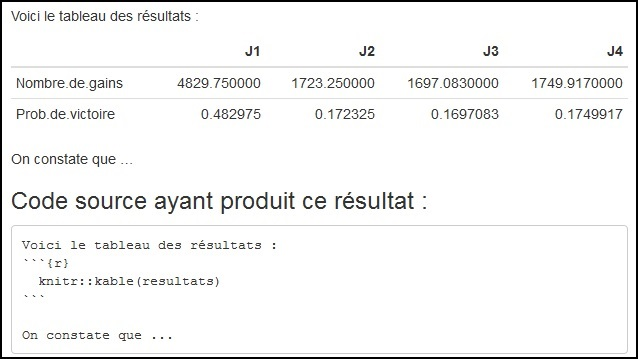
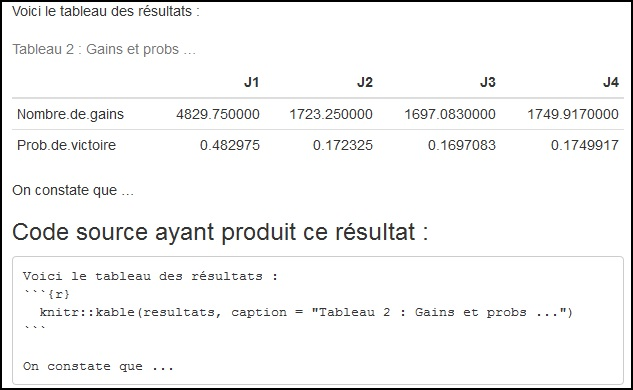
Modification de la solution 2 (tableaux kable) pour l'affichage de tableaux

diff --git a/HTML_Outputs.html b/HTML_Outputs.html
@@ -180,6 +180,7 @@ On constate que ...</code></pre>
 <h1>Deuxième solution</h1>
 <p>Voici le tableau des résultats :</p>
 <table>
+<caption>Tableau 2 : Gains et probs …</caption>
 <thead>
 <tr class="header">
 <th align="left"></th>
@@ -211,7 +212,7 @@ On constate que ...</code></pre>
 <h3>Code source ayant produit ce résultat :</h3>
 <pre><code>Voici le tableau des résultats :
 ```{r}
-  knitr::kable(resultats)
+  knitr::kable(resultats, caption = &quot;Tableau 2 : Gains et probs ...&quot;)
 ```
 
 On constate que ...</code></pre>
